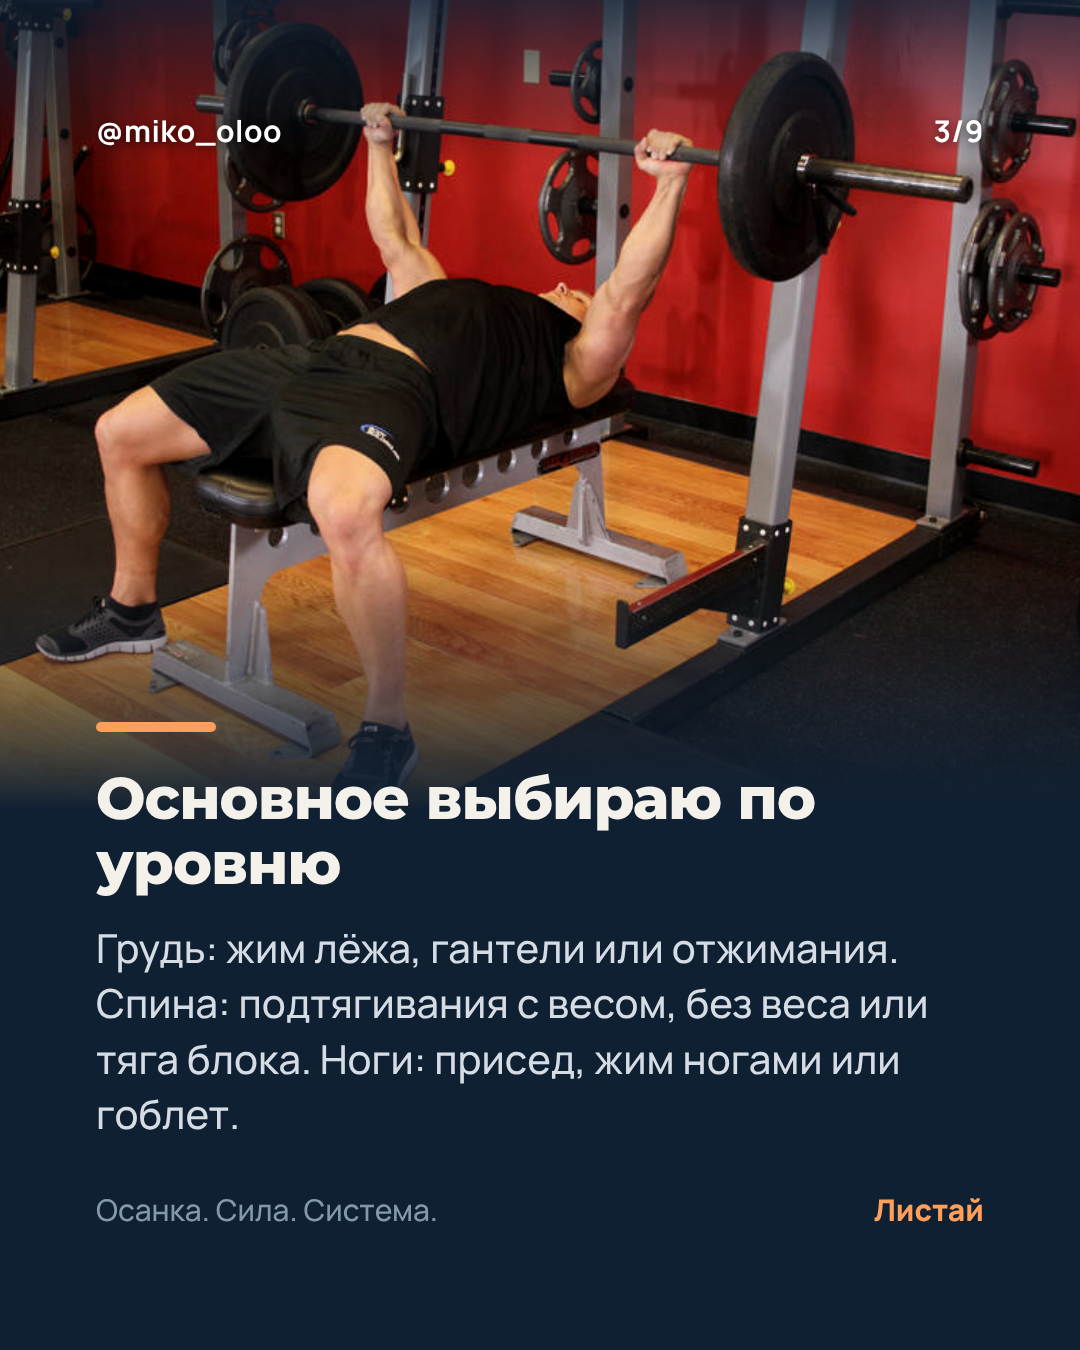
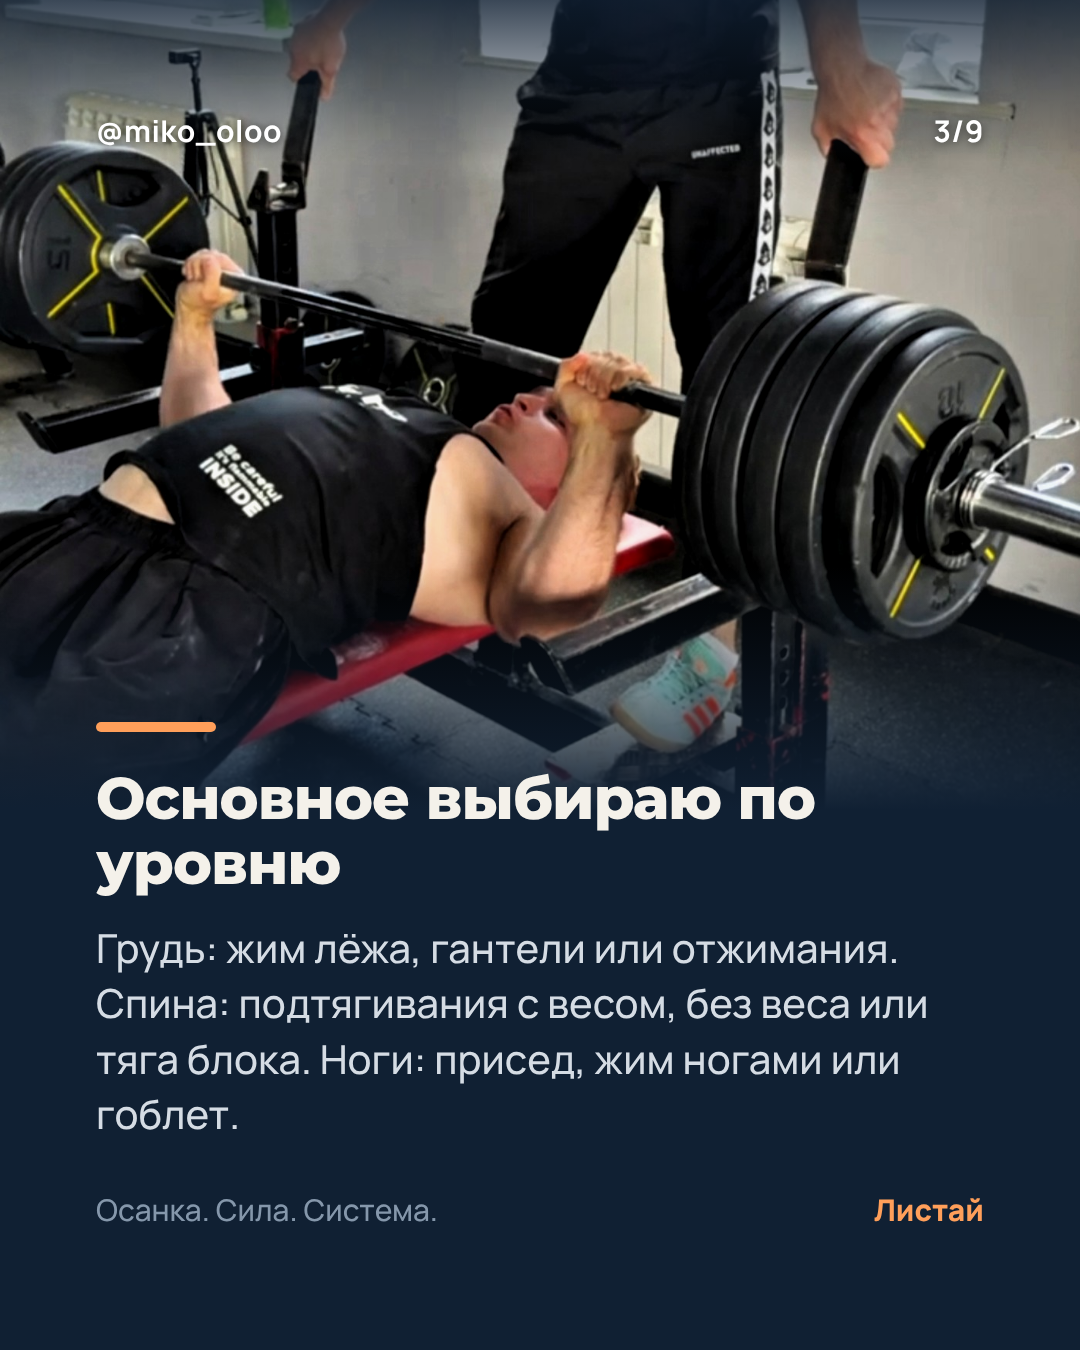
Карусели: фото Микаела вместо чужих (жим, подтягивания, сгибания, планка)
Claude-Session: https://claude.ai/code/session_014b6iEBjPGyacsH4fnBbVwQ

diff --git a/content/carousels/img/SOURCES.md b/content/carousels/img/SOURCES.md
@@ -31,3 +31,12 @@
 | src/px_7343000.jpg | c3 слайд 9 | pexels.com/photo/person-using-smartphone-7343000 | Pexels |
 | src/c1_04..07, src/fedb_*.jpg | c1 слайды 4-7, c2 слайды 3, 4, 6, 7, 8, c3 слайд 6 | free-exercise-db (github.com/yuhonas/free-exercise-db) | Unlicense |
 | own/client_side_01_*.jpg | c1 слайды 1, 2, 3, 9 | фото клиента Микаела, лицо размыто | согласие подтвердил Микаел 23.10 |
+
+## Фото Микаела (прислал сам 26.10 для публикации)
+| Файл | Где | Обработка |
+|---|---|---|
+| src/mikael_bench.jpg | c2 слайд 3 | без изменений, кадрирование |
+| src/mikael_pullup.jpg | c2 слайд 7 | обрезаны полосы скриншота, размыт человек на заднем плане |
+| src/mikael_curl.jpg | c3 слайд 6 | обрезаны полосы скриншота, размыты люди на заднем плане |
+| src/mikael_sideplank.jpg | c1 слайд 8 | без изменений |
+Оригиналы лежат в own/ (вне git).
